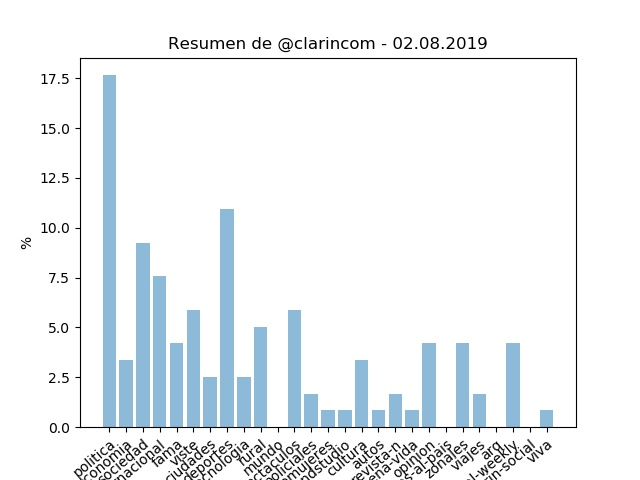
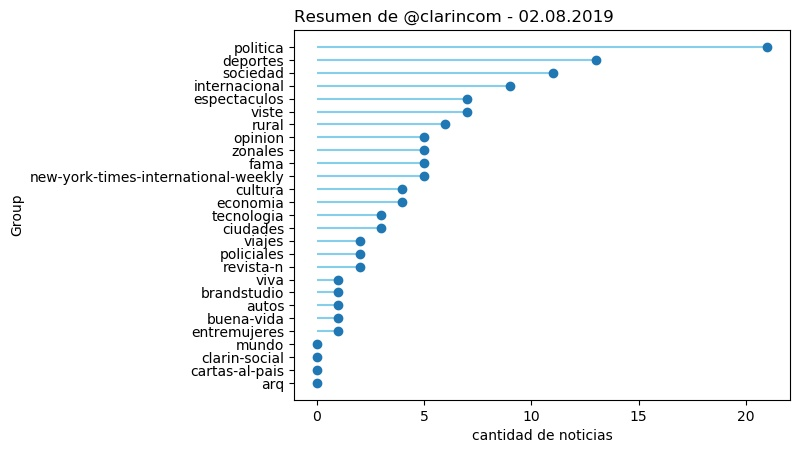
agregados format de label de lollipop

diff --git a/utiles.py b/utiles.py
@@ -149,13 +149,12 @@ def histograma(path, titulo, etiquetas, unidad, data, valfmt="{x:.2f}"):
 
     # plt.show()
 
-def lollipop(path, titulo, etiquetas, unidad, data, valfmt="{x:.2f}"):
+def lollipop(path, colormap, titulo, etiquetas, unidad, data, valfmt="{x:.2f}"):
     # Create a dataframe
     df = pd.DataFrame({'etiquetas':etiquetas, 'valores':data })
 
     a = df.etiquetas
     b = df.valores
-
 
     # Reorder it following the values:
     ordered_df = df.sort_values(by='valores')
@@ -167,16 +166,17 @@ def lollipop(path, titulo, etiquetas, unidad, data, valfmt="{x:.2f}"):
 
     ax.hlines(y=ordered_df.etiquetas, xmin=0, xmax=ordered_df.valores, color='skyblue')
     ax.plot(ordered_df.valores, my_range, "o")
-    
+
     # Add titles and axis names
     if isinstance(valfmt, str):
         valfmt = matplotlib.ticker.StrMethodFormatter(valfmt)
 
+    ax.xaxis.set_major_formatter(valfmt)
+    plt.set_cmap(colormap)
     plt.yticks(my_range, ordered_df.etiquetas)
     plt.title(titulo, loc='left')
     plt.xlabel(unidad)
-    plt.ylabel('Group')
-    plt.savefig(path)
+    plt.savefig(path, bbox_inches='tight',dpi=100)
 
 def cmap_del_dia():
 
@@ -188,6 +188,15 @@ def cmap_del_dia():
     idx = (hoy.year + hoy.month + hoy.day) % len(cmaps)
 
     return cmaps[idx]
+
+def color_del_dia():
+# ARREGLAR ESTOOOO
+    colores = [color for color in matplotlib.colors.get_named_colors_mapping()]
+    
+    hoy = datetime.datetime.now()
+    idx = (hoy.year + hoy.month + hoy.day) % len(colores)
+
+    return colores[idx]
 
 def twittear(texto, path_imagen):
     claves = open("twitter.keys", "r")

diff --git a/dlm.py b/dlm.py
@@ -426,7 +426,7 @@ def perfil(parametros):
         conteo = np.array(data)
 
         # utiles.histograma(path="perfil-" + tag + ".jpg", titulo="Resumen de " + diario['twitter'] + " - " + string_fecha, etiquetas=categorias, unidad="%", data=data)
-        utiles.lollipop(path="perfil-" + tag + ".jpg", titulo="Resumen de " + diario['twitter'] + " - " + string_fecha, etiquetas=categorias, unidad="%", valfmt="{x:.1f}%", data=data)
+        utiles.lollipop(path="perfil-" + tag + ".jpg", colormap=utiles.color_del_dia(), titulo="Resumen de " + diario['twitter'] + " - " + string_fecha, etiquetas=categorias, unidad="cantidad de noticias", valfmt="{x:.0f}", data=lista_medio)
 
         # fig, ax = plt.subplots()
         # im, cbar = utiles.heatmap(conteo, etiqueta_medios, categorias, ax=ax, cmap=utiles.cmap_del_dia(), cbarlabel=string_fecha, cbar_format="{x:.0f}%")
